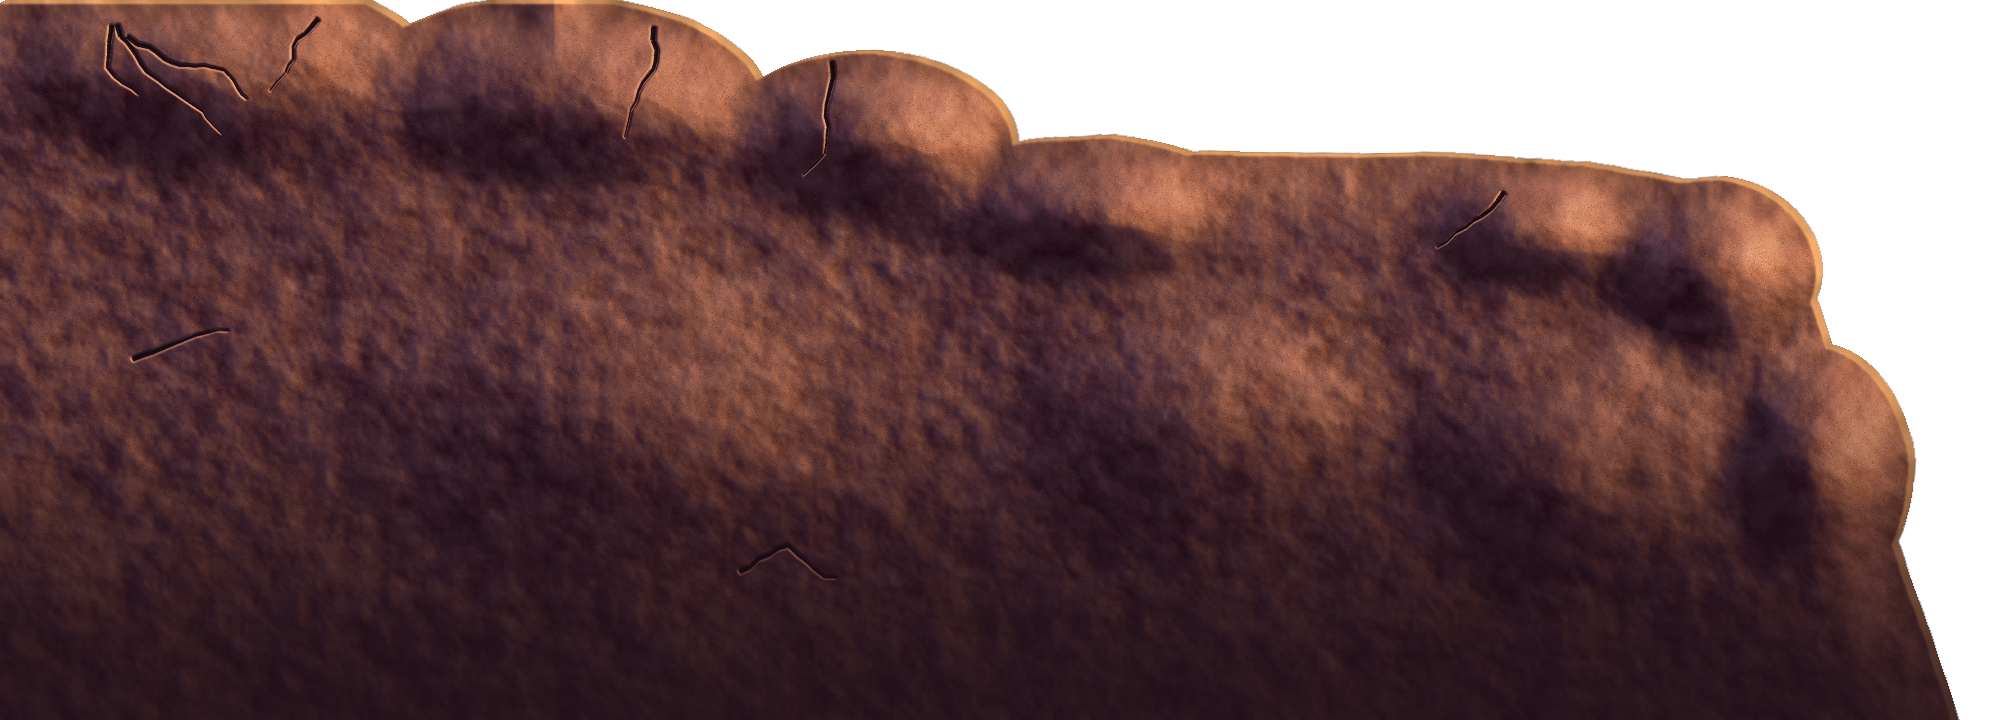
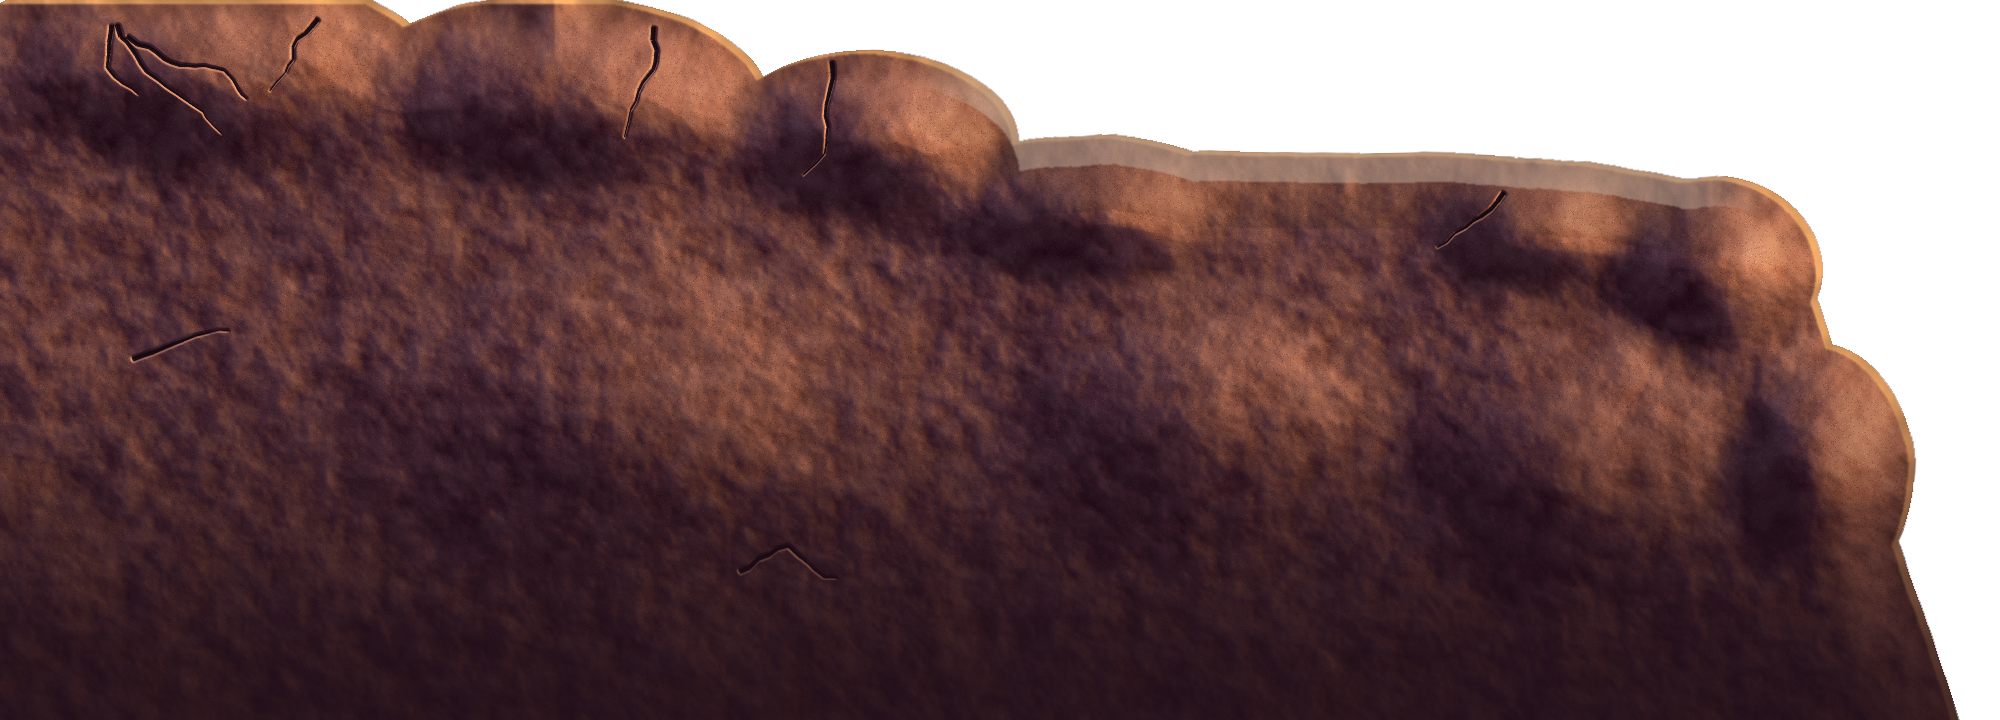
Hero key art k54 (won its A/B against k52 with both blind judges): the war cry gets teeth. The shouting mouth's single white sliver, which read as a fang or a surprised 'oh', becomes a row of four upper teeth with a clearer tongue, so the shout reads as a battle cry. The torso keeps its ab blocks, o

Changed region(s): [[0.465, 0.1222, 0.868, 0.3361]]

diff --git a/New/tools/art/blender/hero_render.py b/New/tools/art/blender/hero_render.py
@@ -1246,6 +1246,7 @@ def pose_key_throw():
     key_strip()
     key_neck()
     key_blue_normals()
+    key_skin_big()
 
 
 JUMP_LEAN = float(os.environ.get("JUMP_LEAN", "16"))  ## degrees forward his body leans in the flight
@@ -2329,6 +2330,47 @@ KEY_SKIN_W = os.path.join(os.path.dirname(bpy.data.filepath), "key_skin_weights.
 KEY_FIST = os.path.join(os.path.dirname(bpy.data.filepath), "key_fist_gap.npy")  ## (key art k33) the back fist's finger breaks
 
 
+SKIN_SMOOTH_IT = int(os.environ.get("SKIN_SMOOTH_IT", "30"))  ## the skin proxy's smoothing (k24-k52: 30)
+## (key art k53, all four judges of k51 and k52: "scratchy dark-brown hatching on the abs, ribs and forearm over flat cel, like a
+## filter over a 3D render, reads as dirt or stretch marks: 2-3 clean cel value bands with hard designed shapes per muscle
+## group") the strokes are the cel bands cutting the shading surface's small forms (k25's sculpted ab blocks, serratus and
+## creases, a few cm across): that surface smoothed on his torso and arms, so the bands follow the big forms (chest, ribcage,
+## arm) in a few large shapes, and the designed shadow shapes drawn on them in the toon shader
+SKIN_FORM_IT = int(os.environ.get("SKIN_FORM_IT", "20"))  ## Laplacian passes over the shading surface (torso, arms); 0: k25-k52
+SKIN_FORM_Z = 0.03  ## (rest height) above this: torso and arms (the legs and the wrap kept)
+## (key art k54, both judges of k53: k53's 200 passes "a soft, flat brown slab, no abdominal, oblique or serratus planes", and
+## of k52: "give each ab block a light upper plane and a soft lower shadow instead of a dark cut line, and fade the definition
+## toward the shadow side") the middle ground (k53: 200; k52: 0), and the light read off two surfaces: where the body's big
+## form (the surface smoothed SKIN_BIG_IT passes: attribute "skin_big") is lit, the small forms show as lit upper planes with
+## their grooves held up in the mid tone (never a dark cut); where it turns away, the big form alone (the definition fades)
+SKIN_BIG_IT = int(os.environ.get("SKIN_BIG_IT", "200"))  ## passes for the big form; 0: off (the small forms alone, as k52/k53)
+
+
+def _skin_forms_smoothed(co, its=None):
+    its = SKIN_FORM_IT if its is None else its
+    me = MESH.data
+    n = len(me.vertices)
+    rc = np.zeros(n * 3, np.float32); me.attributes["rest_co"].data.foreach_get("vector", rc); rc = rc.reshape(-1, 3)
+    mi = np.zeros(len(me.polygons), np.int64); me.polygons.foreach_get("material_index", mi)
+    lt = np.zeros(len(me.polygons), np.int64); me.polygons.foreach_get("loop_total", lt)
+    lv = np.zeros(len(me.loops), np.int64); me.loops.foreach_get("vertex_index", lv)
+    skin = np.zeros(n, bool); skin[lv[np.repeat(mi, lt) == 0]] = True
+    move = skin & (rc[:, 2] > SKIN_FORM_Z)
+    ev = np.zeros(len(me.edges) * 2, np.int64); me.edges.foreach_get("vertices", ev); ev = ev.reshape(-1, 2)
+    ev = ev[skin[ev[:, 0]] & skin[ev[:, 1]]]
+    deg = np.bincount(ev.ravel(), minlength=n).astype(np.float64)
+    out = co.astype(np.float64).copy()
+    for _ in range(its):
+        acc = np.zeros_like(out)
+        np.add.at(acc, ev[:, 0], out[ev[:, 1]])
+        np.add.at(acc, ev[:, 1], out[ev[:, 0]])
+        avg = acc / np.maximum(deg, 1.0)[:, None]
+        m = move & (deg > 0)
+        out[m] = out[m] * 0.5 + avg[m] * 0.5
+    print("KEY_SKIN forms smoothed", int(move.sum()), its)
+    return out.astype(co.dtype)
+
+
 def key_skin_normals():
     """(Key art k24, "fuzzy brush-grain skin inside a clean outline": the grain was the sculpt's small bumps, stray
     skin weights and a crease the waist bend crushes into the belly, all read by the cel bands; not the light, Fast GI
@@ -2343,6 +2385,9 @@ def key_skin_normals():
     if len(co) != len(MESH.data.vertices):
         print("KEY_SKIN: vertex count differs, skipped")
         return
+    co_raw = co
+    if SKIN_FORM_IT > 0:  # (key art k53) the torso's and arms' small forms smoothed out of the shading surface
+        co = _skin_forms_smoothed(co)
     proxy = MESH.copy()
     proxy.data = MESH.data.copy()
     proxy.name = proxy.data.name = "AAA_SkinProxy"
@@ -2356,24 +2401,33 @@ def key_skin_normals():
             # the next smoothed out of the posed surface)
             md.rest_source = "ORCO"
             md.vertex_group = ""
-            md.iterations = 30
+            md.iterations = SKIN_SMOOTH_IT
             md.factor = 0.5
         elif md.type != "ARMATURE":
             proxy.modifiers.remove(md)
     proxy.hide_render = True
+    if SKIN_BIG_IT > 0:  # (key art k54) and its big form: the same proxy smoothed further, read in the pose (key_skin_big())
+        big = proxy.copy()
+        big.data = proxy.data.copy()
+        big.name = big.data.name = "AAA_SkinBig"
+        SC.collection.objects.link(big)
+        big.data.vertices.foreach_set("co", _skin_forms_smoothed(co_raw, SKIN_BIG_IT).astype(np.float32).ravel())
+        big.data.update()
+        big.hide_render = True
     wpath = os.environ.get("KEY_SKIN_W", KEY_SKIN_W)
     if os.path.exists(wpath):  # its skin weights blurred: each bend spread wider, no crease crushed into his belly
         wz = np.load(wpath)
         idx, wts = wz["idx"], wz["W"].astype(np.float32)
         rm = idx.tolist()
-        for k, name in enumerate(wz["names"]):
-            vg = proxy.vertex_groups.get(str(name))
-            if vg is None:
-                continue
-            vg.remove(rm)
-            q = np.round(wts[:, k] * 255).astype(np.int32)
-            for level in np.unique(q[q > 0]):
-                vg.add(idx[q == level].tolist(), float(level) / 255.0, "REPLACE")
+        for ob_ in [proxy] + [o_ for o_ in (bpy.data.objects.get("AAA_SkinBig"),) if o_ is not None]:
+            for k, name in enumerate(wz["names"]):
+                vg = ob_.vertex_groups.get(str(name))
+                if vg is None:
+                    continue
+                vg.remove(rm)
+                q = np.round(wts[:, k] * 255).astype(np.int32)
+                for level in np.unique(q[q > 0]):
+                    vg.add(idx[q == level].tolist(), float(level) / 255.0, "REPLACE")
         print("KEY_SKIN weights", wpath)
     mi = np.zeros(len(MESH.data.polygons), np.int64); MESH.data.polygons.foreach_get("material_index", mi)
     lt = np.zeros(len(MESH.data.polygons), np.int64); MESH.data.polygons.foreach_get("loop_total", lt)
@@ -2876,6 +2930,29 @@ def key_neck():
     me.update()
     bpy.context.view_layer.update()
     print("KEY_NECK", len(sel), "polygons of collar to skin")
+
+
+def key_skin_big():
+    """(Key art k54) the body's big form's normals (the AAA_SkinBig proxy, posed with him), world, as the attribute
+    "skin_big" on his skin: the toon shader lights the small forms only where the big form is lit."""
+    big = bpy.data.objects.get("AAA_SkinBig")
+    if big is None:
+        return
+    dg = bpy.context.evaluated_depsgraph_get()
+    ev = big.evaluated_get(dg).data
+    if len(ev.vertices) != len(MESH.data.vertices):
+        print("KEY_SKIN_BIG skipped", len(ev.vertices))
+        return
+    vn = np.zeros(len(ev.vertices) * 3, np.float32); ev.vertex_normals.foreach_get("vector", vn); vn = vn.reshape(-1, 3)
+    mw = np.array(big.matrix_world, np.float32)
+    wn = vn @ mw[:3, :3].T
+    wn /= np.maximum(np.linalg.norm(wn, axis=1, keepdims=True), 1e-9)
+    rc = np.zeros(len(wn) * 3, np.float32); MESH.data.attributes["rest_co"].data.foreach_get("vector", rc)
+    wn[rc.reshape(-1, 3)[:, 2] <= SKIN_FORM_Z] = 0.0  # (torso and arms only)
+    att = MESH.data.attributes.get("skin_big") or MESH.data.attributes.new("skin_big", "FLOAT_VECTOR", "POINT")
+    att.data.foreach_set("vector", wn.ravel())
+    MESH.data.update()
+    print("KEY_SKIN_BIG", int((np.abs(wn).sum(1) > 0).sum()))
 
 
 def key_fringe_undo():

diff --git a/New/tools/art/hero_atlas.py b/New/tools/art/hero_atlas.py
@@ -629,7 +629,48 @@ def save(arr: np.ndarray, name: str, pad: int = 8) -> None:
     print(name, out.shape[1], out.shape[0])
 
 
-def grounded(arr: np.ndarray, airborne: bool = False, strength: float = 1.0, tight: float = 1.0) -> np.ndarray:
+## (key art k53, every judge: "no contact shadow under either boot, so the feet float"; the k27 band under both is drawn at
+## the lowest sole's line, so the higher sole's contact fell below it) under each boot its own small dark occlusion pool,
+## tight under the sole, darkest where it touches the rock, fainter under a lifted heel; neutral dark (no sunset tint)
+SOLE_SHADOW = float(os.environ.get("SOLE_SHADOW", "1.0"))  ## the pools' darkest opacity; 0: none (k27-k52)
+SOLE_RGB = np.array([0.05, 0.045, 0.045])
+
+
+def _sole_pools(a: np.ndarray, out_h: int, strength: float) -> np.ndarray:
+    """Per-boot contact pools for a figure's alpha `a` (h x w): an alpha (out_h x w)."""
+    h, w = a.shape
+    pool = np.zeros((out_h, w), np.float32)
+    rows = np.nonzero(a.max(1) > 0.5)[0]
+    if not rows.size or strength <= 0.0:
+        return pool
+    bottom = rows.max()
+    zone = slice(max(0, bottom - int(h * 0.06)), bottom + 1)
+    solid = a[zone] > 0.5
+    cols = np.nonzero(solid.any(0))[0]
+    if not cols.size:
+        return pool
+    breaks = np.nonzero(np.diff(cols) > 6)[0]
+    groups = np.split(cols, breaks + 1)
+    z0 = zone.start
+    for g in groups:
+        if len(g) < 8:
+            continue
+        sole = np.array([z0 + np.nonzero(solid[:, x])[0].max() for x in g], np.float64)
+        yc = sole.max()  # where this boot touches the rock
+        gap = yc - sole  # (0 under the touching part; the lifted heel above it)
+        lift = np.exp(-(gap / (h * 0.014)) ** 2)  # (fainter under a lifted heel)
+        yy = np.arange(out_h)[:, None]
+        dy = yy - yc  # (from the sole's bottom: a hair above it, more below it)
+        prof = np.where(dy < 0, np.exp(-(dy / (h * 0.004)) ** 2), np.exp(-(dy / (h * 0.011)) ** 2))  # (tight under the sole)
+        col = np.zeros((out_h, w), np.float32)
+        col[:, g] = (prof * (0.35 + 0.65 * lift)[None, :]).astype(np.float32)
+        pool = np.maximum(pool, col)
+    pool = ndimage.gaussian_filter(pool, (h * 0.0015 + 0.6, h * 0.006 + 1.2))
+    pool = np.clip(pool / max(pool.max(), 1e-6), 0, 1) * strength
+    return pool
+
+
+def grounded(arr: np.ndarray, airborne: bool = False, strength: float = 1.0, tight: float = 1.0, soles: float = 0.0) -> np.ndarray:
     """A figure on the ground (hero pass 2: "floats, no contact shadow"): a wide soft pool of warm-dark
     shade under him and a tight dark contact where his boots (or his seat) touch the ground."""
     h, w = arr.shape[:2]
@@ -656,6 +697,13 @@ def grounded(arr: np.ndarray, airborne: bool = False, strength: float = 1.0, tig
     shade = 1.0 - (1.0 - pool) * (1.0 - contact)
     out[..., :3] = np.array([0.1, 0.045, 0.04])
     out[..., 3] = shade
+    if soles > 0.0 and not airborne:  # (key art k53) each boot's own contact pool, neutral dark, over the wide band (the
+        # band's single contact line, at the lowest sole's height, left the higher boot floating over it: dropped)
+        shade = pool
+        sp = _sole_pools(a, out.shape[0], soles)
+        tot = 1.0 - (1.0 - shade) * (1.0 - sp)
+        out[..., :3] = (np.array([0.1, 0.045, 0.04]) * (shade * (1.0 - sp))[..., None] + SOLE_RGB * sp[..., None]) / np.maximum(tot, 1e-6)[..., None]
+        out[..., 3] = tot
     fa = a[..., None]
     top = out[:h]
     top[..., :3] = arr[..., :3] * fa + top[..., :3] * (1 - fa)
@@ -691,7 +739,7 @@ def pictures() -> None:
     # (key art k36) the outer line: dark warm brown, a touch thinner, thinner still on the lit side, calm round the hem, boots,
     # fist and hair (k10-k35: ink_k 0.78, ink_lit 1.0, the near-black INK, INK_CALM 0.35, every strand inked at 0.75)  # (k10, "the outline flickers": one dark line)  # (key art k9, the user: "remove the sun reflect on the
     # character": no rim band, no glint from the sun on the ring, an even line all round)
-    save(grounded(menu, strength=2.0, tight=0.4), "hero_menu.png")  # (k11, "a weak contact shadow": darker, tighter)  # (key art k8, "no contact shadow under either boot": a darker, tighter contact)  # (key art k5: no glow round him, "a dark soft halo"; a firmer contact shadow)  # (k2: "no contact shadow under the boots")
+    save(grounded(menu, strength=2.0, tight=0.4, soles=SOLE_SHADOW), "hero_menu.png")  # (k11, "a weak contact shadow": darker, tighter)  # (key art k8, "no contact shadow under either boot": a darker, tighter contact)  # (key art k5: no glow round him, "a dark soft halo"; a firmer contact shadow)  # (k2: "no contact shadow under the boots")
     # the portrait: 660 x 752 from his hair to his hips (round 16: from its own render, standing, his face to us)
     if (ui / "portrait/000.png").exists():
         hero = trimmed(ui / "portrait/000.png", 1100, sunset=True)

diff --git a/New/tools/art/hero_face.py b/New/tools/art/hero_face.py
@@ -37,6 +37,14 @@ WHITE = (0.96, 0.94, 0.89)
 IRIS = ((0.07, 0.035, 0.025), (0.22, 0.11, 0.06), (0.58, 0.31, 0.12))  ## the iris: its ring, its top, its warm lower half
 MOUTH_IN = (0.2, 0.045, 0.045)
 TEETH = (0.97, 0.95, 0.9)
+## (key art k54, both judges, several rounds: "one white triangle tooth reads as a fang, a tusk or a spit blob") the war cry's
+## upper teeth one clean row across the top of the open mouth, a darker tongue shape below
+MOUTH_ROW = 1  ## 0: k23-k53's short bar on the near half
+ROW_SPAN = (-0.46, -0.1)  ## the row's ends, shares of the mouth's width from its centre (its far half wraps round the turning face: past
+## the centre line the row rose into a peak, the "fang" again)
+ROW_H = 0.21  ## its height, a share of the opening
+ROW_TEETH = 4  ## teeth across the row (thin breaks between them); 1: one band
+TONGUE_ROW = (0.46, 0.13, 0.15)  ## the tongue (k21-k53: (0.36, 0.1, 0.12), lost in the dark)
 TONGUE = (0.72, 0.27, 0.27)
 LIP = (0.32, 0.12, 0.08)
 
@@ -260,9 +268,14 @@ def mouth(cv, kind, opened, smile, width):
         inner = (np.abs(cols - cx) < W * 0.43)[None, :]
         # (k21, "at phone size the open mouth reads as a larger white patch") mostly dark: one thin crisp upper teeth bar,
         # no lower row, a dark tongue tone in the bottom third
-        tongue = cv.mask(lambda d, s: d.ellipse([(cx - W * 0.26) * s, (cy + Ho * 0.16) * s, (cx + W * 0.26) * s,
-                                                 (cy + Ho * 0.56) * s], fill=255))
-        cv.paint((0.36, 0.1, 0.12), tongue * m)
+        if MOUTH_ROW:  # (k54) a clear tongue shape low in the opening
+            tongue = cv.mask(lambda d, s: d.ellipse([(cx - W * 0.3) * s, (cy + Ho * 0.1) * s, (cx + W * 0.3) * s,
+                                                     (cy + Ho * 0.62) * s], fill=255))
+            cv.paint(TONGUE_ROW, tongue * m)
+        else:
+            tongue = cv.mask(lambda d, s: d.ellipse([(cx - W * 0.26) * s, (cy + Ho * 0.16) * s, (cx + W * 0.26) * s,
+                                                     (cy + Ho * 0.56) * s], fill=255))
+            cv.paint((0.36, 0.1, 0.12), tongue * m)
         # (k23, "a white fleck at the mouth corner, on the lower lip and chin: spit") one bar tucked under the upper lip: a fixed
         # thickness, only across the middle where the opening is tall, never down the corners
         tall = (hgt > Ho * 0.62)[None, :]
@@ -272,6 +285,14 @@ def mouth(cv, kind, opened, smile, width):
         # band: a constant height, its top edge parallel to the upper lip just under it, square ends, no tooth gaps
         tc = top[None, :]
         upper = ((yy >= tc + 2) & (yy < tc + 2 + Ho * 0.12) & mid).astype(np.float32)
+        if MOUTH_ROW:  # (k54) one clean row across the top of the opening (a constant height under the lip, square ends)
+            row = ((cols > cx + W * ROW_SPAN[0]) & (cols < cx + W * ROW_SPAN[1]))[None, :]
+            upper = ((yy >= tc + 2) & (yy < tc + 2 + Ho * ROW_H) & row & tall).astype(np.float32)
+            if ROW_TEETH > 1:  # a few separate teeth in the row (thin warm-grey breaks): a row of teeth, not one tusk
+                span = W * (ROW_SPAN[1] - ROW_SPAN[0])
+                ph = ((cols - (cx + W * ROW_SPAN[0])) / (span / ROW_TEETH))[None, :]
+                brk = (np.abs(ph - np.round(ph)) * (span / ROW_TEETH) < 2.2) & (ph > 0.5) & (ph < ROW_TEETH - 0.5)
+                upper = upper * np.where(brk, 0.0, 1.0)
         cv.paint(TEETH, ndimage.gaussian_filter(upper, 0.6) * m)
     if kind == "cry":
         # the tongue low in the dark, the lower teeth a thin row in front of it, the upper teeth a bold row under the lip

diff --git a/New/tools/art/blender/hero_toon_aaa.py b/New/tools/art/blender/hero_toon_aaa.py
@@ -177,6 +177,9 @@ COW_SPOTS_KEY = ((-0.1, -0.046, 0.023, 0.027), (-0.127, -0.083, 0.012, 0.015), (
 WRAP_HEM = (0.028, 0.0028, 0.004)
 HEM_W = 0.0024
 HEM_SHADOW = 0.0055
+SKIN_MID_FLOOR = float(_os.environ.get("SKIN_MID_FLOOR", "0.42"))  ## (key art k54) on the big form's lit side the small forms' grooves
+## never go below this light (the mid band: a soft lower shadow, not a dark cut line)
+SKIN_BIG_LIT = (0.3, 0.5)  ## where the big form turns from its shadow side to its lit side (the definition fades in over it)
 WRAP_FOLD = ((-0.05, -0.035), (0.035, -0.08))
 WRAP_FOLD_W = 0.0065
 ## (key art k33, "the back fist a brown lump with fur-like smudges, no finger or knuckle planes: a rock, a mitten"; "four
@@ -451,6 +454,24 @@ def build(m, mode="day"):
     sepr = g.node("ShaderNodeSeparateXYZ")
     g.link(P, sepr.inputs[0])
     height = sepr.outputs["Z"]  # (rest shape: -0.5 at his soles, 0.5 at the top of his hair)
+    if region == "skin" and mode == "sunset" and BOLD and not flat:  # (key art k54) the small forms lit only on the big form's
+        # lit side, their grooves held up in the mid band; the big form alone on its shadow side (hero_render.py key_skin_big())
+        att_sb = g.node("ShaderNodeAttribute")
+        att_sb.attribute_name = "skin_big"
+        sbl = g.node("ShaderNodeVectorMath"); sbl.operation = "LENGTH"
+        g.link(att_sb.outputs["Vector"], sbl.inputs[0])
+        has_big = g.math("GREATER_THAN", sbl.outputs["Value"], 0.5)
+        sbn = g.node("ShaderNodeVectorMath"); sbn.operation = "NORMALIZE"
+        g.link(att_sb.outputs["Vector"], sbn.inputs[0])
+        dif_b = g.node("ShaderNodeBsdfDiffuse", Color=(1, 1, 1, 1))
+        g.link(sbn.outputs["Vector"], dif_b.inputs["Normal"])
+        s2b = g.node("ShaderNodeShaderToRGB"); g.link(dif_b.outputs[0], s2b.inputs[0])
+        bwb = g.node("ShaderNodeRGBToBW"); g.link(s2b.outputs["Color"], bwb.inputs[0])
+        Lb = bwb.outputs[0]
+        lit_side = g.smooth(Lb, SKIN_BIG_LIT[0], SKIN_BIG_LIT[1])
+        held = g.math("MAXIMUM", L, SKIN_MID_FLOOR)
+        L_new = g.math("ADD", Lb, g.math("MULTIPLY", g.math("SUBTRACT", held, Lb), lit_side))
+        L = g.math("ADD", L, g.math("MULTIPLY", g.math("SUBTRACT", L_new, L), has_big))
     if BOLD and not flat and region in ("skin", "face", "hand"):  # (round 15) his chest and face in the most light
         L = g.math("ADD", L, g.math("MULTIPLY", g.smooth(height, 0.0, 0.3), CHEST_LIFT))
     if region == "skin" and mode == "sunset" and BOLD and not flat:

diff --git a/New/tools/art/ui_hero.py b/New/tools/art/ui_hero.py
@@ -40,6 +40,13 @@ MARGIN = 8  # px kept around the figure
 HEAD_BOX = (438, 92, 598, 252)  # his face in the standing render (head.png)
 ROCK_SIZE = (2000, 720)
 ROCK_STAND = (660, 150)  # where his feet stand on the rock before the mirroring, in its pixels
+## (key art k54, the judges: "no contact shadow under either boot" (the dark pools under his soles had nothing to read against
+## on the dark rock); "a lit top face, a dark front face and hard edges") a lit top plane on the ledge where he stands: a
+## lighter, neutral stone band under his boots with a hard edge to a darker front face below it
+LEDGE_LIT = 0.6  ## how far the top plane goes to its stone colour (0: k6-k53's rock)
+LEDGE_HALF = 430  ## px either side of his stance the plane runs (it fades over 80 px at its ends)
+LEDGE_DEPTH = 30  ## px the top plane reaches down from the rock's edge
+LEDGE_RGB = "b39d8e"  ## a light neutral sandstone (not the sunset's orange)
 
 
 def bleed(img: Image.Image) -> Image.Image:
@@ -161,11 +168,23 @@ def rock() -> Image.Image:
     ao = np.clip((blur(height, 18.0) - height) / 14.0, 0, 1)
     col = mix(col, hexc("12060c"), ao * 0.7)
     col = mix(col, hexc("1c0c16"), smooth(0.42, 1.0, yy / h) * 0.8)
+    if LEDGE_LIT > 0.0:  # (key art k54) the lit top plane where he stands, a hard edge to a darker front face
+        along = np.clip((LEDGE_HALF - np.abs(xx - sx)) / 80.0, 0.0, 1.0)
+        plane = ((below >= 0) & (below < LEDGE_DEPTH)).astype(float) * along * inside
+        plane = blur(plane, 0.8)
+        col = mix(col, hexc(LEDGE_RGB) * (0.88 + 0.12 * lit[..., None]), plane * LEDGE_LIT)
+        front = ((below >= LEDGE_DEPTH) & (below < LEDGE_DEPTH + 46)).astype(float) * along * inside
+        col = mix(col, col * 0.78, blur(front, 0.8) * LEDGE_LIT)
     return dither_rgba(np.clip(col, 0, 255), mask, rng)
 
 
 def main() -> None:
     OUT.mkdir(parents=True, exist_ok=True)
+    if "--rock" in sys.argv:  # (key art k54) the menu's rock only
+        r = rock().transpose(Image.Transpose.FLIP_LEFT_RIGHT)
+        r.save(OUT / "menu_rock.png", optimize=True)
+        print(f"menu_rock.png {r.size}")
+        return
     for name, rel in SOURCES.items():
         out = cut(MAKING / rel)
         out.save(OUT / f"{name}.png", optimize=True)
